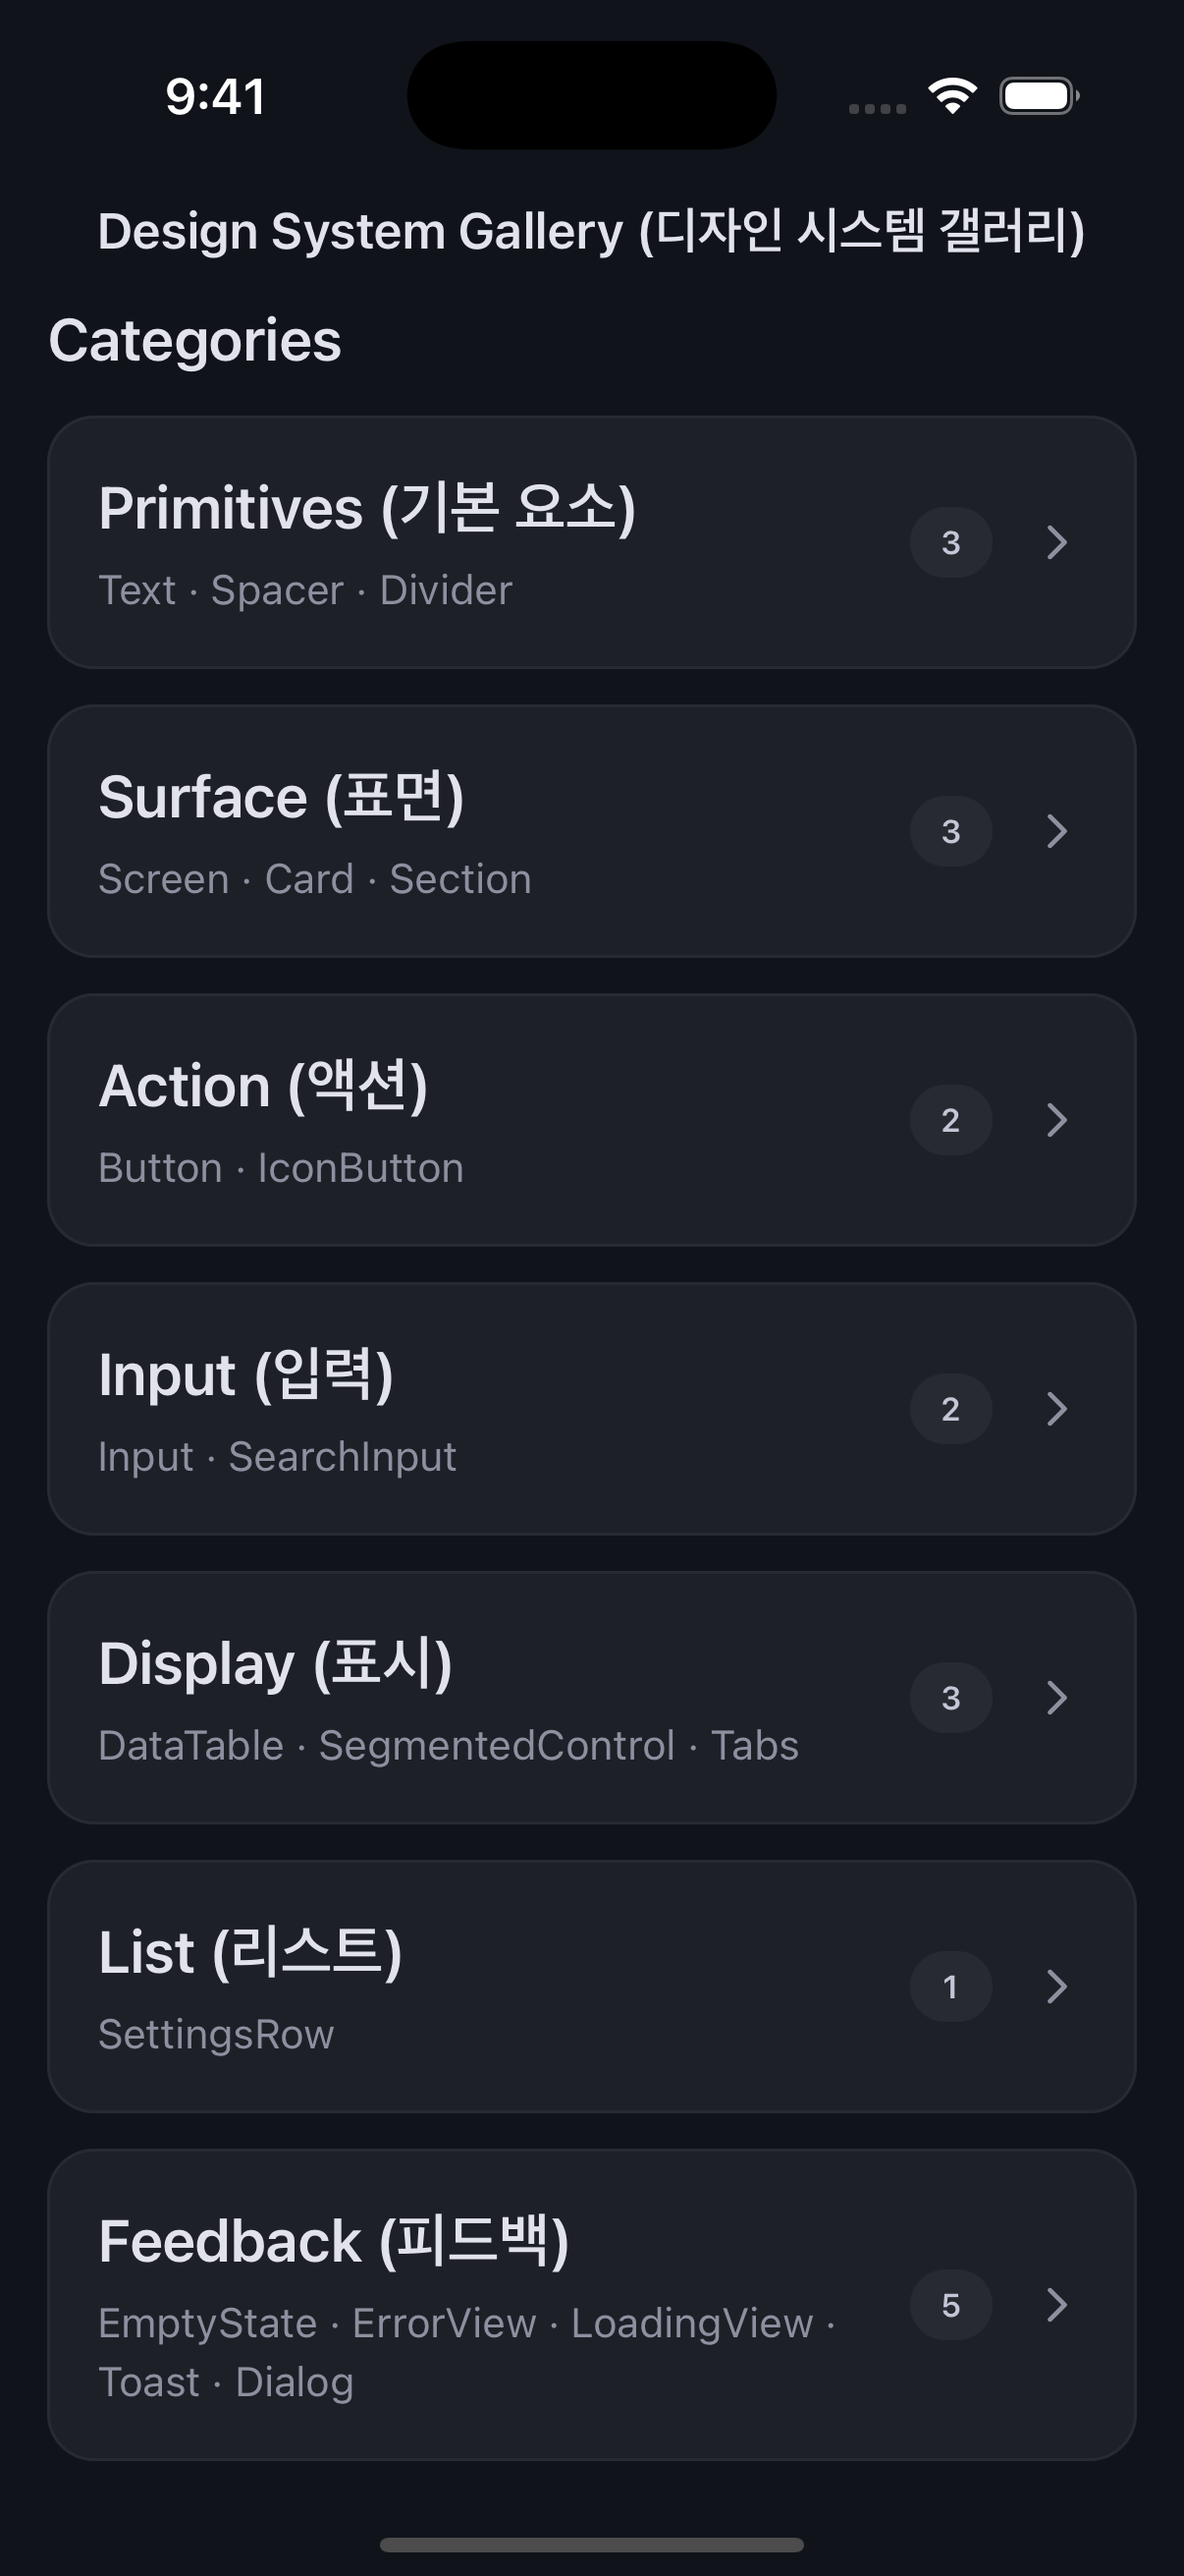
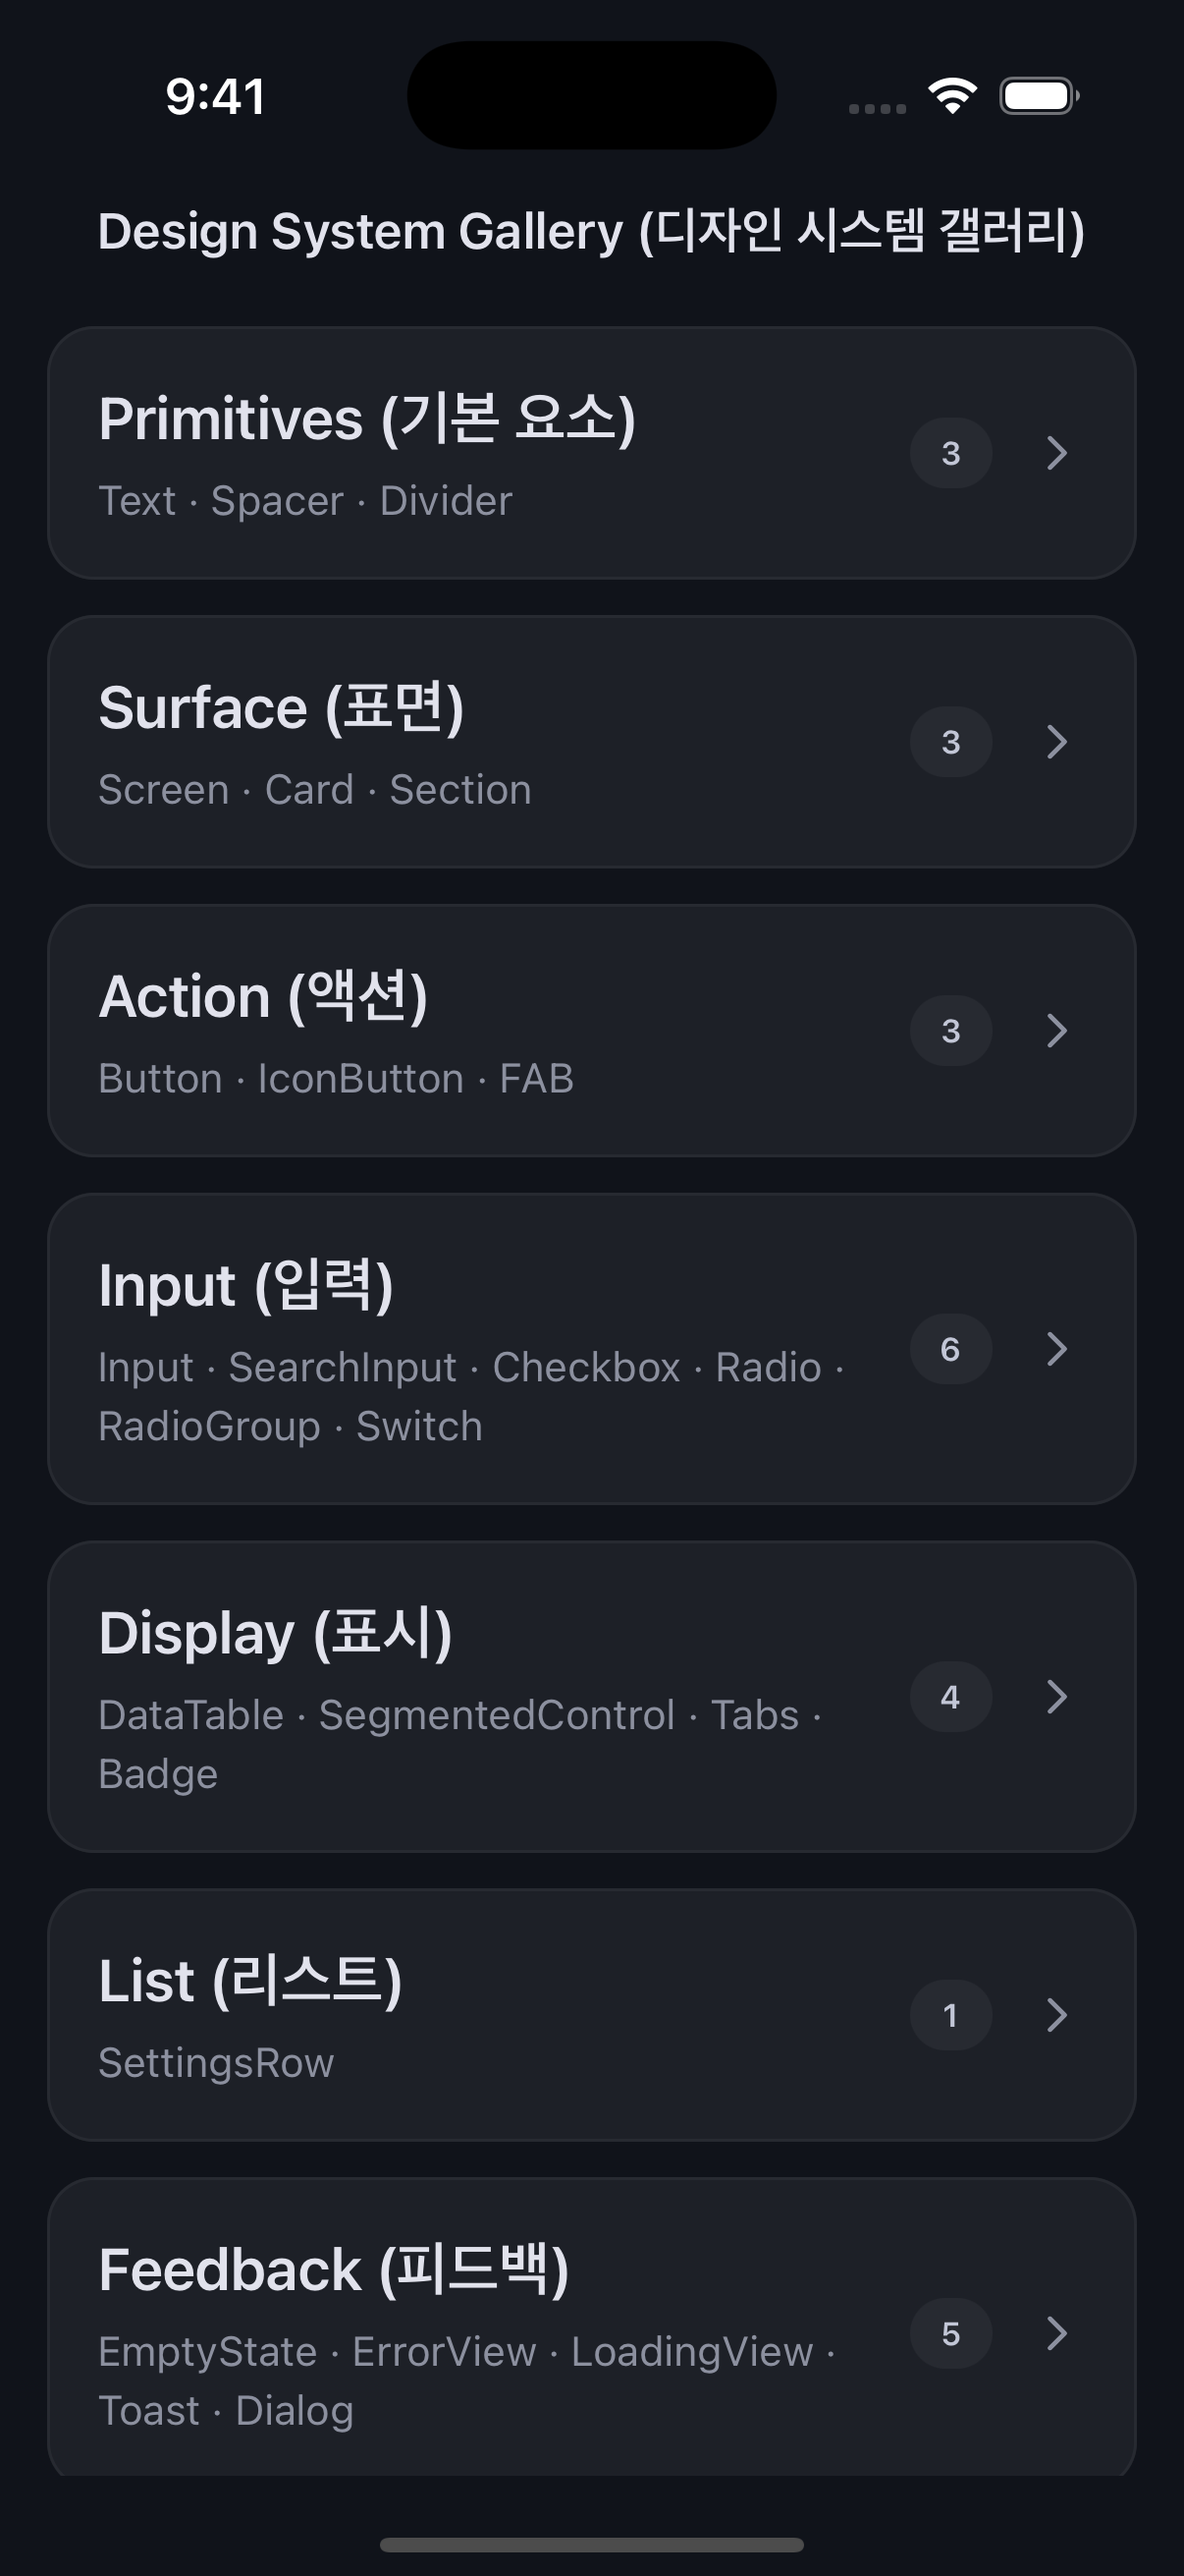
Badge/FAB 스크린샷 + GalleryHome 갱신 + README/DECISIONS ADR-21·22
스크린샷
- docs/screenshots/badge-light/dark.png 신규 (3 types × 4 colors × 2 sizes 시연)
- docs/screenshots/fab-light/dark.png 신규 (4 variants + M3 그림자)
- docs/screenshots/home-light/dark.png 갱신 (Action 3 / Display 4 / 총 25)

README
- 헤더 23 → 25, 컴포넌트 표에 Badge·FAB 행 추가
- 사용 예시에 Badge·FAB 코드 블록 추가
- 스크린샷 섹션: "Action — FAB" + "Display — Badge" 신규

DECISIONS
- ADR-21: Badge 3 types × 2 sizes × 4 colors + 99+ 자동 처리 결정
- ADR-22: FAB 4 variants 정원형 + 1 color + M3 Elevation 3 결정

diff --git a/README.md b/README.md
@@ -1,6 +1,6 @@
 # rn-design-system-starter
 
-> React Native 0.85 디자인 시스템 스타터 — 23개 컴포넌트, 2-tier 토큰, 라이트/다크 자동 전환, 전역 Toast·Dialog 호스트.
+> React Native 0.85 디자인 시스템 스타터 — 25개 컴포넌트, 2-tier 토큰, 라이트/다크 자동 전환, 전역 Toast·Dialog 호스트.
 
 ## Screenshots
 
@@ -25,6 +25,11 @@
 | Light | Dark |
 |:---:|:---:|
 | ![button light](docs/screenshots/button-light.png) | ![button dark](docs/screenshots/button-dark.png) |
+
+### Action — FAB (Floating Action Button)
+| Light | Dark |
+|:---:|:---:|
+| ![fab light](docs/screenshots/fab-light.png) | ![fab dark](docs/screenshots/fab-dark.png) |
 
 ### Input — Input (입력)
 | Light | Dark |
@@ -61,6 +66,11 @@
 |:---:|:---:|
 | ![tabs light](docs/screenshots/tabs-light.png) | ![tabs dark](docs/screenshots/tabs-dark.png) |
 
+### Display — Badge (배지)
+| Light | Dark |
+|:---:|:---:|
+| ![badge light](docs/screenshots/badge-light.png) | ![badge dark](docs/screenshots/badge-dark.png) |
+
 ### List — SettingsRow (설정 행)
 | Light | Dark |
 |:---:|:---:|
@@ -88,7 +98,7 @@ npm run ios      # 또는 npm run android
 
 요구사항: Node.js 22.11+, Xcode 16+ (iOS), Android Studio + JDK 17+ (Android).
 
-## 포함 컴포넌트 (23종, 7 카테고리)
+## 포함 컴포넌트 (25종, 7 카테고리)
 
 | 카테고리 | 컴포넌트 | 설명 |
 |---|---|---|
@@ -100,6 +110,7 @@ npm run ios      # 또는 npm run android
 | | `Section` | 페이지 내 시멘틱 섹션 컨테이너 |
 | **action** | `Button` | 액션 버튼 (primary·secondary·destructive) |
 | | `IconButton` | 아이콘 기반 액션 버튼 |
+| | `FAB` | Material 3 Floating Action Button (4 variants: small·default·large·extended, 정원형) |
 | **input** | `Input` | 라벨·헬퍼·에러 메시지 지원 텍스트 입력 |
 | | `SearchInput` | 검색 아이콘 + 클리어 버튼이 있는 검색 입력 |
 | | `Checkbox` | Material 3 둥근 사각형 체크박스 (3 size, label 옵션) |
@@ -108,6 +119,7 @@ npm run ios      # 또는 npm run android
 | **display** | `DataTable` | 타입 안전한 데이터 테이블 (정렬·밀도 옵션) |
 | | `SegmentedControl` | 균등 분할 옵션 선택기 |
 | | `Tabs` | Material 3 underline 가로 탭 |
+| | `Badge` | 상태·카운트·라벨 표시 (3 types × 2 sizes × 4 colors, 99+ 자동 처리) |
 | **list** | `SettingsRow` | 설정 화면용 행 (5가지 유형) |
 | **feedback** | `EmptyState` | 빈 상태 표현 |
 | | `ErrorView` | 오류 상태 표현 |
@@ -196,6 +208,27 @@ const [dark, setDark] = useState(false);
 <Switch value={dark} onValueChange={setDark} label="다크 모드" />
 <Switch value={dark} onValueChange={setDark} size="lg" />
 <Switch value disabled />
+```
+
+### Badge
+```tsx
+import { Badge } from '@/components/display';
+
+<Badge type="dot" color="success" />
+<Badge type="count" value={3} color="destructive" />
+<Badge type="count" value={150} />        // → "99+" 자동
+<Badge type="label" value="NEW" color="warning" />
+```
+
+### FAB
+```tsx
+import { Plus } from 'lucide-react-native';
+import { FAB } from '@/components/action';
+
+<FAB icon={<Plus />} accessibilityLabel="추가" onPress={openSheet} />
+<FAB variant="small" icon={<Plus />} accessibilityLabel="추가" onPress={...} />
+<FAB variant="large" icon={<Plus />} accessibilityLabel="새 항목" onPress={...} />
+<FAB variant="extended" icon={<Plus />} label="글쓰기" onPress={...} />
 ```
 
 ## Toast & Dialog

diff --git a/DECISIONS.md b/DECISIONS.md
@@ -181,3 +181,21 @@
 - **선택**: **SettingsRow의 내장 `Toggle` 함수와 `ToggleTrack`/`ToggleHandle` styled 정의 제거**, `kind: 'toggle'` 분기에서 `<Switch size="md" value onValueChange />` 인스턴스 렌더. `onChange` 콜백을 `onValueChange`로 그대로 전달.
 - **포기한 옵션**: 내장 toggle 코드 유지 + 시각만 새 Switch 사양으로 변경 (코드 중복), Switch에 `presentation: 'inline'` 같은 prop 추가 (Switch API 복잡화).
 - **근거**: 시각 사양이 동일한 컴포넌트를 두 곳에서 정의하면 향후 변경(예: 애니메이션 추가, 토큰 변경) 시 두 곳 동기화 부담. Switch 컴포넌트가 단일 진실(single source of truth) — SettingsRow는 그 인스턴스를 호출만 함. accessibilityRole `'switch'`는 Row level에서 이미 부여하고 있어 중첩되지만 RN의 accessibility는 부모 노드 우선이라 문제 없음.
+
+---
+
+## ADR-21: Badge — 3 types × 2 sizes × 4 colors + 99+ 자동 처리
+
+- **상황**: Badge 신규 추가. 단일 type vs 다중 type, 텍스트 길이 처리 방식 결정.
+- **선택**: **3 type 분리** (dot/count/label) — 각 type이 의미적으로 다른 사용 케이스. **2 sizes** (sm/md). **4 colors** (primary/destructive/success/warning). count는 `value > 99 → "99+"` 자동 처리. dot은 텍스트 없음(정원), count는 정원 + min-width로 1자리/2자리 모두 정원형 유지, label은 pill(height/2) + paddingHorizontal로 width hug.
+- **포기한 옵션**: 단일 Badge (`variant` prop 없이 props로 분기 — API 모호), 자유 텍스트 길이 (count=120 그대로 표시 시 정원 깨짐 + 시각 비대칭), color 7개(state.info 포함 — info Badge는 의미상 primary와 중복).
+- **근거**: dot/count/label 3 type은 시각·의미·layout이 모두 달라 단일 type 분기가 어색(Material 3도 small/large badge 분리). 99+ 패턴은 모바일 알림 UX의 사실상 표준(Material 3·iOS HIG 공통). 4 colors는 라이브러리 `primary/error/success/warning` 토큰과 1:1 정합. 위치는 display 카테고리 — 상태 표시이지 액션 트리거가 아니므로.
+
+---
+
+## ADR-22: FAB — 4 variants 정원형, 1 color, M3 + 모바일 RN 패턴
+
+- **상황**: FAB(Floating Action Button) 신규 추가. M3 표준 둥근 사각형 vs 모바일 RN 정원형, color variant 수 결정.
+- **선택**: **4 variants** (small 40 / default 56 / large 96 / extended) **× primary 단일 color**. 모든 variant `cornerRadius = height/2` (정원형 / extended는 pill). M3 Elevation 3 dual-shadow(iOS shadowColor + Android elevation 6). 아이콘은 `cloneElement`로 size·color 자동 주입(IconButton 패턴 일관).
+- **포기한 옵션**: M3 표준 둥근 사각형(default cornerRadius 16) — 시각 인지 모호(IconButton과 혼동), 2 colors(primary + secondary) — secondary FAB 사용 빈도 낮음 + surface fill이 라이브러리 wrapper 위 가독성 약함, color/icon 별도 prop — IconButton과 일관성 부족.
+- **근거**: react-native-paper FAB가 정원형(M3 적용 + 모바일 RN 사용자 익숙)이고 본인 사이클 시각 검증에서 정원형이 인지 명확. extended pill 모양도 정원 연장(height/2)으로 시각 일관. 1 color는 FAB의 본질("primary action 강조 buton") 정합 — secondary는 일반 Button으로 대체 가능. action 카테고리 — 액션 트리거 컴포넌트이므로.
